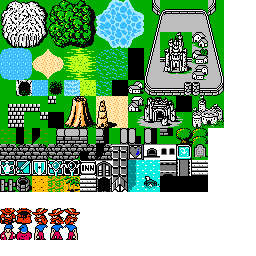
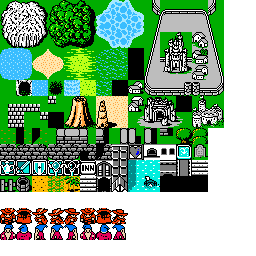
Animated directional sprites for player and NPCs

Changed region(s): [[0.3125, 0.8125, 0.5, 0.9375], [0.25, 0.8125, 0.2812, 0.8438]]

diff --git a/src/ts/display/pixiDisplay/PixiDisplay.ts b/src/ts/display/pixiDisplay/PixiDisplay.ts
@@ -5,7 +5,7 @@
  * 
  */
 
-import { Application, Assets, Texture, Rectangle, Sprite, Text, Container } from 'pixi.js';
+import { Application, Assets, Texture, Rectangle, Sprite, Text, Container, AnimatedSprite } from 'pixi.js';
 import ItemsData from '../../data/Items.data';
 import Loc from '../../loc/Loc';
 import Being from '../../model/Being.class';
@@ -276,8 +276,7 @@ export default {
 		this.semiViewportCountX = Math.floor(config.viewportCountX / 2);
 		this.semiViewportCountY = Math.floor(config.viewportCountY / 2);
 
-		this.playerSprite = new Sprite(this.tilesets.main.textureMap['0-13']);
-		this.inGameContainer.addChild(this.playerSprite);
+		//this.inGameContainer.addChild(this.playerSprite);
 
 		/*const hudSprite = this.inGameContainer.addChild(new Sprite(Texture.WHITE));
 		hudSprite.tint = 0xabb3a3;
@@ -575,23 +574,7 @@ export default {
 			return null;
 		}
 	},
-	updatePlayerSprite () {
-		var level = this.game.world.level as Level;
-		let coord = '0-0';
-		let tileset = 'main';
-		if (level.player.lastMoveDir.y === 1) {
-			coord = '0-13'
-		} else if (level.player.lastMoveDir.y === -1) {
-			coord = '1-13'
-		} else if (level.player.lastMoveDir.x === -1) {
-			coord = '2-13'
-		} else {
-			coord = '4-13'
-		}
-		this.playerSprite.texture = this.tilesets[tileset].textureMap[coord];
-	},
 	async scroll (dx: number, dy: number, time: number): Promise<void> {
-		this.updatePlayerSprite();
 		const originalX = this.viewportContainer.position.x;
 		const originalY = this.viewportContainer.position.y;
 		await new Promise<void>(resolve => {
@@ -613,12 +596,11 @@ export default {
 	refresh: function() {
 		this.visibleBeings.forEach(being => being.sprite.visible = false);
 		this.visibleBeings = [];
-		this.updatePlayerSprite();
-		this.playerSprite.position.x = Math.floor(this.config.canvasWidth / 2);
-		this.playerSprite.position.y = Math.floor((this.config.canvasHeight - LOWER_BAR_HEIGHT) / 2)   // Lower bar;
+		const player = this.game.world.level.player;
+		player.sprite.position.x = Math.floor(this.config.canvasWidth / 2);
+		player.sprite.position.y = Math.floor((this.config.canvasHeight - LOWER_BAR_HEIGHT) / 2);
 		this.viewportContainer.position.x = 0;
 		this.viewportContainer.position.y = 0;
-		const player = this.game.world.level.player;
 		const noTexture = this.tilesets.slashie.textureMap['1-5'];
 		const oosTexture = this.game.world.level.id === 'overworld' ? this.tilesets.slashie.textureMap['0-5'] : this.tilesets.slashie.textureMap['2-5'];
 		for (var x = -this.semiViewportCountX; x <= this.semiViewportCountX; x++) {
@@ -649,8 +631,10 @@ export default {
 				const being = terrainAppearance ? this.game.world.level.getBeing(mapX, mapY) : null;
 				if (being) {
 					being.sprite.visible = true;
-					being.sprite.position.x = this.playerSprite.position.x + x * 16 + being.spriteOffsetX;
-					being.sprite.position.y = this.playerSprite.position.y + y * 16 + being.spriteOffsetY;
+					if (!being.isMoving) {
+						being.sprite.position.x = player.sprite.position.x + x * 16 + being.spriteOffsetX;
+						being.sprite.position.y = player.sprite.position.y + y * 16 + being.spriteOffsetY;
+					}
 					this.visibleBeings.push(being);
 				}
 			}
@@ -742,12 +726,7 @@ export default {
 		this.components.helpWindow.mainContainer.visible = false;
 	},
 	async moveBeing (being: Being, dx: number, dy: number): Promise<void> {
-		const player = this.game.world.level.player;
-		var xr = being.x + dx - player.x;
-		var yr = being.y + dy - player.y;
-		if (player.canSee(xr, yr, true)){	
-			return this.moveSprite(being.sprite, dx, dy, 200);
-		}
+		return this.moveSprite(being.sprite, dx, dy, 290);
 	},
 
 	async moveSprite (sprite: Sprite, dx: number, dy: number, time: number): Promise<void> {
@@ -779,14 +758,14 @@ export default {
 	},
 	async springPlayer (dx: number, dy: number, edgeAction: () => Promise<void>): Promise<void> {
 		const player = this.game.world.level.player;
-		return this.springSprite(this.playerSprite, dx, dy, 0, 0, player.x, player.y, edgeAction);
+		return this.springSprite(player.sprite, dx, dy, 0, 0, player.x, player.y, edgeAction);
 	},
 	async springSprite (sprite: Sprite, dx: number, dy: number, offsetX: number, offsetY: number, fromMapX: number, fromMapY: number, edgeAction: () => Promise<void>): Promise<void> {
 		const player = this.game.world.level.player;
 		const originalPlayerX = player.x;
 		const originalPlayerY = player.y;
-		const originalPlayerSpriteX = this.playerSprite.position.x;
-		const originalPlayerSpriteY = this.playerSprite.position.y;
+		const originalPlayerSpriteX = player.sprite.position.x;
+		const originalPlayerSpriteY = player.sprite.position.y;
 		await new Promise<void>((resolve) => {
 			new TWEEN.Tween(sprite.position).to(
 				{
@@ -839,6 +818,19 @@ export default {
 	createSprite (tilesetName: string, coord: string) {
 		const sprite = new Sprite(this.tilesets[tilesetName].textureMap[coord]);
 		this.viewportContainer.addChild(sprite); // TODO: Ask for the container?
+		return sprite;
+	},
+	getTextures (tilesetName: string, coords: string[]) {
+		return coords.map(coord => this.tilesets[tilesetName].textureMap[coord]);
+	},
+	createAnimatedSprite(player: true,textures: Texture[]) {
+		const sprite = new AnimatedSprite(textures);
+		if (player) {
+			this.inGameContainer.addChild(sprite); // TODO: Ask for the container?
+		} else {
+			this.viewportContainer.addChild(sprite); // TODO: Ask for the container?
+		}
+		sprite.animationSpeed = 1 / 8;
 		return sprite;
 	},
 	isMobile () {

diff --git a/src/ts/model/Player.ts b/src/ts/model/Player.ts
@@ -1,3 +1,4 @@
+import { AnimatedSprite, Texture } from "pixi.js";
 import Loc from "../loc/Loc";
 import Random from "../Random";
 import Being from "./Being.class";
@@ -68,12 +69,22 @@ export default class Player {
 		this.guts = new Stat(50);
 		this._c = circular.register('Player');
 	}
-	
+	private upTextures: Texture[];
+	private downTextures: Texture[];
+	private leftTextures: Texture[];
+	private rightTextures: Texture[];
+	sprite: AnimatedSprite;
 	init (game: any) {
 		this.game = game;
 		for (var j = -MAX_SIGHT_RANGE; j <= MAX_SIGHT_RANGE; j++){
 			this.visible[j] = [];
 		}
+		this.upTextures = game.display.getTextures('main', ['1-13', '6-13']);
+		this.downTextures = game.display.getTextures('main', ['0-13', '5-13']);
+		this.leftTextures = game.display.getTextures('main', ['2-13', '3-13']);
+		this.rightTextures = game.display.getTextures('main', ['4-13', '7-13']);
+		this.sprite = game.display.createAnimatedSprite(true, this.downTextures);
+		this.updateSprite(0, 1);
 	}
 	addMoney (howMuch: number) {
 		this.money += howMuch;
@@ -102,7 +113,7 @@ export default class Player {
 			this.game.display.showDialog(`${Loc.loc("dialog.says", being.getName())}\n${Loc.loc(being.race.dialogs[being.currentMessage])}`);
 			return true;
 		} else {
-			this.game.display.updatePlayerSprite();
+			//this.game.display.updatePlayerSprite();
 			await this.game.display.springPlayer(dx, dy, async () => await this.attack(being));
 			return true;
 		}
@@ -112,10 +123,15 @@ export default class Player {
 	}
 	async tryMove (dir: IPosition) {
 		this.lastAction = 'move';
+		//if (this.lastMoveDir.x != dir.x || this.lastMoveDir.y != dir.y) {
+			this.updateSprite(dir.x, dir.y);
+		//}
+		this.sprite.play();
 		this.lastMoveDir.x = dir.x;
 		this.lastMoveDir.y = dir.y;
 		const being = this.game.world.level.getBeing(this.x + dir.x, this.y + dir.y);
 		if (being) {
+			this.sprite.gotoAndStop(0);
 			const interacted = await this.interactWithBeing(being, dir.x, dir.y);
 			if (interacted) {
 				if (this.game.input.mode === 'MOVEMENT') {
@@ -145,11 +161,25 @@ export default class Player {
 			this.endTurn();
 			return;
 		}
-		this.game.audio.playSfx('fs_grass_01,fs_grass_02,fs_grass_03,fs_grass_04,fs_grass_05,fs_grass_06');
-		await this.game.display.scroll(dir.x, dir.y, 200);
+		//this.game.audio.playSfx('fs_grass_01,fs_grass_02,fs_grass_03,fs_grass_04,fs_grass_05,fs_grass_06');
+		await this.game.display.scroll(dir.x, dir.y, 300);
+		this.sprite.gotoAndStop(0);
 		this.x += dir.x;
 		this.y += dir.y;
 		this.land();
+	}
+	private updateSprite(dx: number, dy: number): void {
+		let textures = this.downTextures;
+		if (dy === 1) {
+			textures = this.downTextures;
+		} else if (dy === -1) {
+			textures = this.upTextures;
+		} else if (dx === -1) {
+			textures = this.leftTextures;
+		} else {
+			textures = this.rightTextures;
+		}
+		this.sprite.textures = textures;
 	}
 	tryBuy (itemDef: any) {
 		if (itemDef.goldValue > this.money) {
@@ -233,6 +263,7 @@ export default class Player {
 		}
 		this.updateFOV();
 		this.game.display.refresh();
+		this.sprite.gotoAndStop(0);
 		await this.game.world.level.beingsTurn();
 	}
 	canSee (dx: number, dy: number, physically?: boolean) {

diff --git a/src/ts/model/Being.class.ts b/src/ts/model/Being.class.ts
@@ -4,7 +4,7 @@
  * 
  */
 
-import { Sprite } from 'pixi.js';
+import { AnimatedSprite, Sprite, Texture } from 'pixi.js';
 import RacesData from '../data/Races.data';
 import Loc from '../loc/Loc';
 import Random from '../Random';
@@ -20,7 +20,7 @@ export default class Being {
 
 	private game: any;
 	private level: Level;
-	sprite: Sprite; // TODO: When backporting to JSRL, this should be in PIXIDisplay as a map indexed by an unique beingId
+	sprite: AnimatedSprite; // TODO: When backporting to JSRL, this should be in PIXIDisplay as a map indexed by an unique beingId
 	spriteOffsetX: number;
 	spriteOffsetY: number;
 	private tileName: string;
@@ -28,6 +28,7 @@ export default class Being {
 	private xPosition: number;
 	private yPosition: number;
 	private intent: string;
+	isMoving: boolean;
 	eventId: string;
 	interacted: boolean;
 	race: any;
@@ -49,11 +50,19 @@ export default class Being {
 		this._c =  circular.register('Being');
 	}
 	
+	private upTextures: Texture[];
+	private downTextures: Texture[];
+	private leftTextures: Texture[];
+	private rightTextures: Texture[];
 	init (game: any, level: Level, race: any, depthModifier: number): void{
 		this.game = game;
 		this.level = level;
 		const tileset = race.tileset || 'main';
-		this.sprite = game.display.createSprite(tileset, race.tilesetData);
+		this.upTextures = game.display.getTextures('main', race.tilesetData.up);
+		this.downTextures = game.display.getTextures('main', race.tilesetData.down);
+		this.leftTextures = game.display.getTextures('main', race.tilesetData.left);
+		this.rightTextures = game.display.getTextures('main', race.tilesetData.right);
+		this.sprite = game.display.createAnimatedSprite(false, this.downTextures);
 		this.sprite.visible = false;
 		this.spriteOffsetX = game.display.tilesets[tileset].offsetX;
 		this.spriteOffsetY = game.display.tilesets[tileset].offsetY;
@@ -66,9 +75,27 @@ export default class Being {
 		this.xPosition = 0;
 		this.yPosition = 0;
 		this.intent = 'CHASE';
+		this.updateSprite(0,1);
+	}
+
+	private updateSprite(dx: number, dy: number): void {
+		let textures = this.downTextures;
+		if (dy === 1) {
+			textures = this.downTextures;
+		} else if (dy === -1) {
+			textures = this.upTextures;
+		} else if (dx === -1) {
+			textures = this.leftTextures;
+		} else {
+			textures = this.rightTextures;
+		}
+		this.sprite.textures = textures;
 	}
 
 	async act () {
+		if (this.isMoving) {
+			return;
+		}
 		switch (this.intent){
 			case 'RANDOM':
 				await this.actRandom();
@@ -150,12 +177,19 @@ export default class Being {
 	}
 
 	async moveTo (dx: number, dy: number) {
+		this.updateSprite(dx, dy);
+		this.sprite.play();
 		this.level.moveBeing(this, dx, dy);
 		this.xPosition = this.x + dx;
 		this.yPosition = this.y + dy;
-		if (this.level.safe)
-			return;
-		await this.game.display.moveBeing(this, dx, dy);
+		/*if (this.level.safe)
+			return;*/
+		this.isMoving = true;
+		const promise = this.game.display.moveBeing(this, dx, dy);
+		promise.then(() => {
+			this.isMoving = false;
+			this.sprite.gotoAndStop(0);
+		});
 	}
 
 	placeOn (x: number, y: number) {

diff --git a/src/ts/data/Races.data.ts b/src/ts/data/Races.data.ts
@@ -21,7 +21,12 @@ const races = {
 	},
 	TOWNSMAN: {
 		name: 'npc.townsman',
-		tilesetData: '0-14',
+		tilesetData: {
+			up: ['1-14', '6-14'],
+			down: ['0-14', '5-14'],
+			left: ['2-14', '3-14'],
+			right: ['4-14', '7-14']
+		},
 		dialogs: ['dialog.npc.1'],
 		unique: false
 	},
